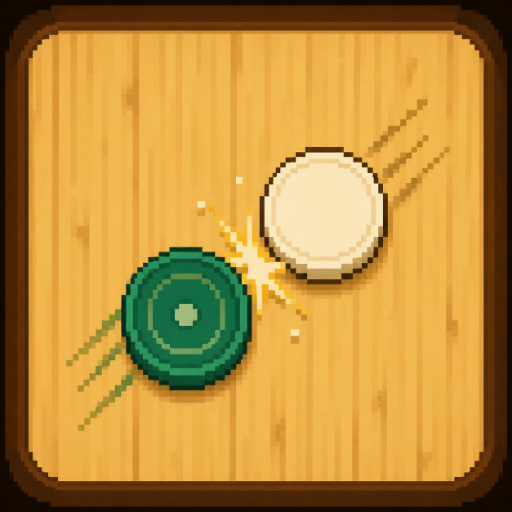
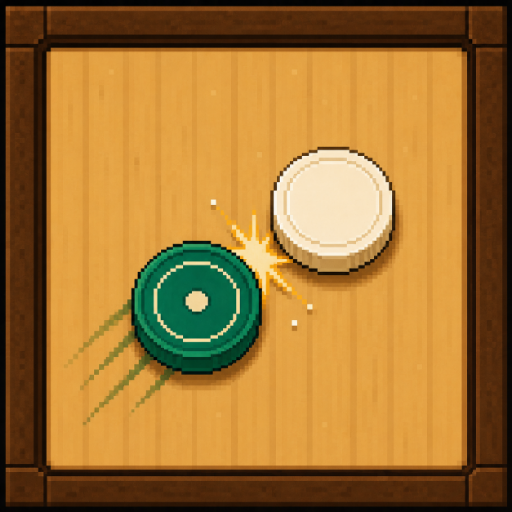
Icône de l'application : nouvelle version du visuel
Cadrage plus serré, cadre carré à fond perdu. C'est mieux ainsi : la version
précédente portait ses propres coins arrondis, sur lesquels iOS et Android
appliquaient ensuite leur masque, laissant un liseré sombre dans les angles.

Même constat que la fois précédente sur la définition : 1254 px de côté,
donc au-delà des 1024 px nécessaires, mais 70 353 couleurs distinctes et
17 ruptures franches seulement — image rééchantillonnée, aux blocs
légèrement flous. Les huit tailles viennent donc d'une réduction, en deux
temps sous 256 px.

Claude-Session: https://claude.ai/code/session_01P1kGgqf4yKwvjTgi27QtYv

diff --git a/visuels/app/README.md b/visuels/app/README.md
@@ -1,21 +1,25 @@
 # Icône de l'application
 
 Le visuel vient de toi (`source-1254.png`, 1254×1254) : le palet vert et le
-jeton clair au moment du choc, gerbe dorée entre les deux, lignes de vitesse
-derrière chacun, sur le plateau de bois.
+jeton clair à l'instant du choc, gerbe dorée entre les deux, lignes de
+vitesse derrière le palet, le tout sur le plateau de bois. Le cadre est
+carré et à fond perdu — c'est ce qu'il faut, les systèmes appliquant
+eux-mêmes leur masque arrondi.
 
 ## Sur la définition
 
-La source fait 1254 px de côté — plus que les 1024 px de la plus grande
-taille demandée par les systèmes. **Aucun agrandissement n'était donc
+La source fait 1254 px de côté, soit plus que les 1024 px de la plus grande
+taille réclamée par les systèmes. **Aucun agrandissement n'était donc
 nécessaire**, et il aurait été contre-productif : l'image a été
-rééchantillonnée avant de m'arriver (54 709 couleurs distinctes, dix
-ruptures franches seulement sur toute la largeur), autrement dit ses blocs
-sont flous. L'agrandir n'aurait fait qu'étaler ce flou.
+rééchantillonnée avant de m'arriver — 70 353 couleurs distinctes et
+seulement 17 ruptures franches sur toute la largeur, là où un vrai pixel art
+compte quelques dizaines de couleurs et une rupture à chaque bord de bloc.
+Autrement dit ses blocs sont légèrement flous, et l'agrandir n'aurait fait
+qu'étaler ce flou sans ajouter le moindre détail.
 
-Toutes les tailles sont donc obtenues par **réduction**, ce qui resserre les
-blocs et masque le flou. Sous 256 px la réduction se fait en deux temps
-(1254 → 512 → cible) : un seul saut bavait.
+Toutes les tailles viennent donc d'une **réduction**, qui resserre les blocs
+et fait disparaître le flou. Sous 256 px la réduction se fait en deux temps
+(1254 → 512 → cible) : un saut unique bavait.
 
 | Fichier | Usage |
 |---------|-------|
@@ -28,9 +32,22 @@ blocs et masque le flou. Sous 256 px la réduction se fait en deux temps
 | `icone-120.png` | iPhone ancien |
 | `icone-32.png` | onglet du navigateur |
 
+`apercu-accueil.png` montre le rendu à 160, 80, 60 et 40 px avec le masque
+arrondi : c'est le vrai test de lisibilité.
+
+## Câblage
+
+La page déployée sur Vercel porte un `manifest.webmanifest` (nom, affichage
+autonome, orientation portrait, couleurs de fond et de thème) et les quatre
+`apple-touch-icon` d'iOS. Les fichiers sont servis par jsDelivr, épinglés
+sur un commit — le même mécanisme que le jeu lui-même.
+
+Le `index.html` à la racine du dépôt reste autonome et garde son favicon SVG
+en ligne : il doit fonctionner hors ligne, sans dépendre d'un réseau.
+
 ## Si tu veux du vraiment net
 
 Je peux redessiner cette composition exacte — même palet, même jeton, même
-gerbe, mêmes lignes de vitesse — avec les primitives pixel du jeu. Le
-résultat serait tracé sur une grille franche et resterait net à n'importe
-quelle taille, au lieu d'être une réduction d'une image floue.
+gerbe, mêmes lignes de vitesse — avec les primitives pixel du jeu. Elle
+serait alors tracée sur une grille franche et resterait nette à n'importe
+quelle taille, au lieu d'être la réduction d'une image légèrement floue.
